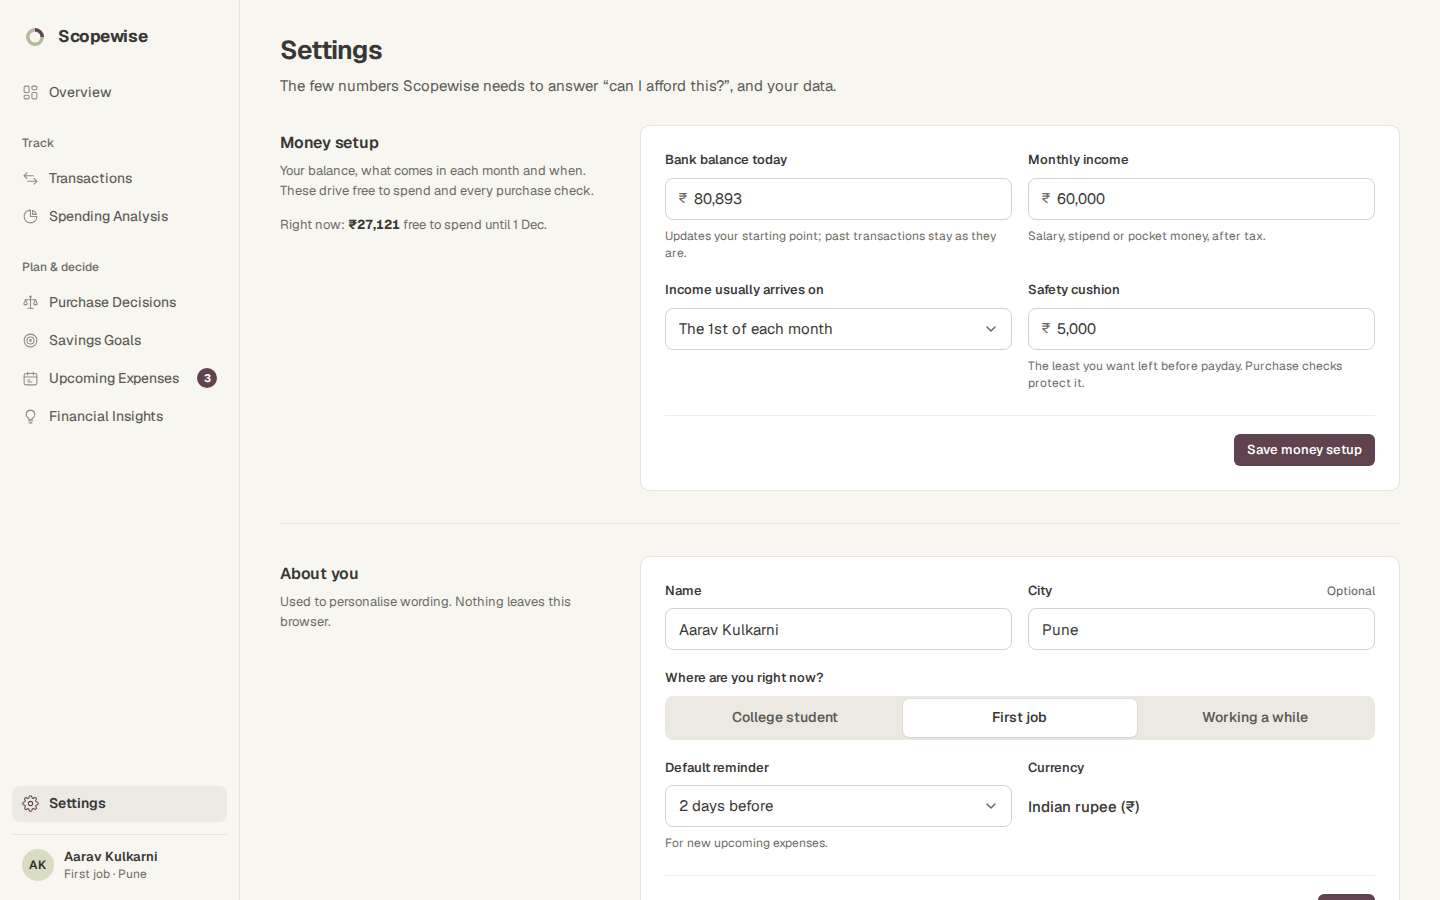
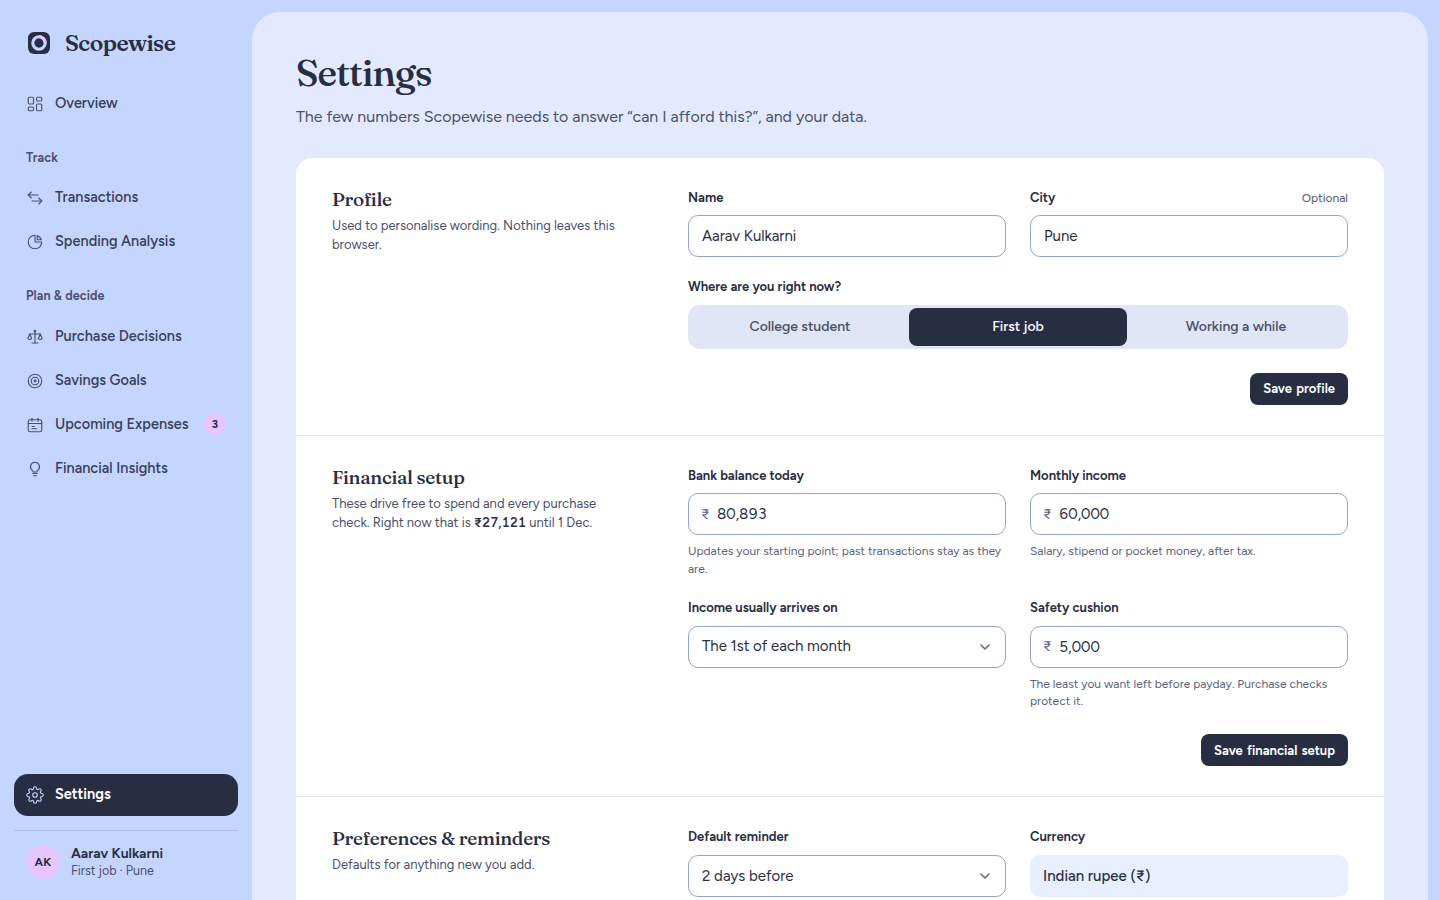
Update README screenshots to the current Scopewise UI

diff --git a/README.md b/README.md
@@ -57,6 +57,8 @@ All screenshots are from the running application with its built-in example data.
 | ![Savings Goals](docs/screenshots/goals.png) | ![Financial Insights](docs/screenshots/insights.png) |
 | **Spending Analysis** | **Transactions** |
 | ![Spending Analysis](docs/screenshots/spending.png) | ![Transactions](docs/screenshots/transactions.png) |
+| **Overview** | **Settings** |
+| ![Overview](docs/screenshots/overview.png) | ![Settings](docs/screenshots/settings.png) |
 
 ## Tech stack
 
